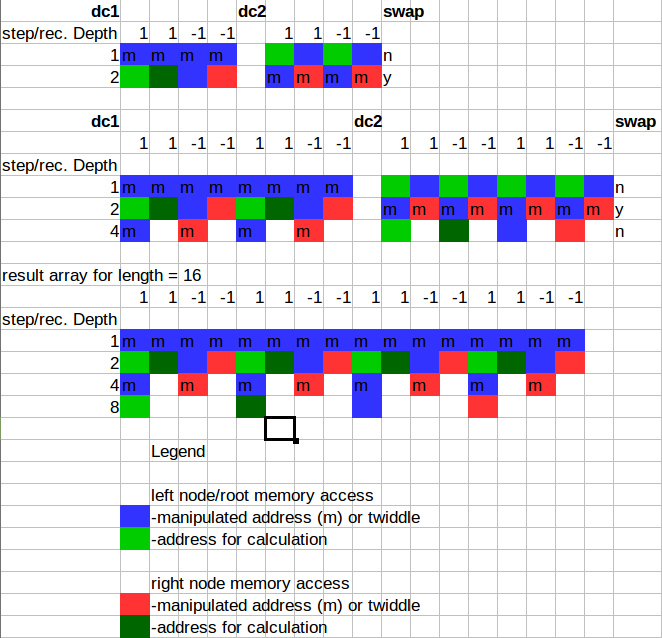
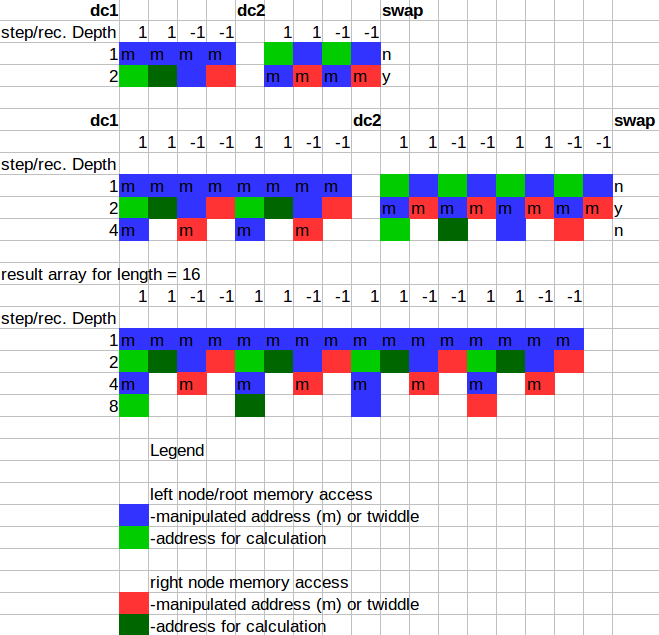
new tex files

diff --git a/Latex/memacc.tex b/Latex/memacc.tex
@@ -1,0 +1,11 @@
+Basicly, the recursive implementation calculates the odd and even part of the FFT like a binary tree. All left nodes in the recursive call tree calculate the even part and the odd part is calculated by the right nodes. Parent nodes need the children's result for their own calculations. That's why our arrays get swapped. 
+The resulting memory access pattern is as follows:
+\begin{center}
+\includegraphics[width=\textwidth]{memacc.png}
+\end{center}
+The 1's and -1's are just from an example rectangle signal. The picture shows the full memory access for arrays of length 4 and 8. This information is all that you need since you can easily iterative expand the access picture in two steps:
+\begin{enumerate}
+\item duplicate the memory pattern horizontally
+\item copy the last line of the other array, add double the "whitespaces" + 1 after the single accesses and add it as last line of the new access pattern. 
+\end{enumerate}
+As example we also included the result array for length = 16.

diff --git a/Latex/protokoll.tex b/Latex/protokoll.tex
@@ -77,11 +77,21 @@
 %
 %%%%%%%%%%%%%%%%%%%%%%%%%%%%%%%%%%%%%%%%%%%%%%%%%%%%%%%%%%%%%%%%%%%%%%
 %EXAMPLE
+\section{Introduction}
+	\subsection{Correctness}
+	\input{correctness}
+	\subsection{Complexitiy}
+	\input{complexity}
+	\pagebreak
+	\subsection{Memory Access Pattern}
+	\input{memacc}
 \section{OpenMP}
 	\subsection{Recursive Implementation}
 	\input{openmp_rec}
 	\subsection{Iterative Implementation}
 	\input{openmp_it}
+\section{MPI}
+	
 \pagebreak
 
 %%%%%%%%%%%%%%%%%%%%%%%%%%%%%%%%%%%%%%%%%%%%%%%%%%%%%%%%%%%%%%%%%%%%%%

diff --git a/Latex/correctness.tex b/Latex/correctness.tex
@@ -1,0 +1,1 @@
+FFT = FFT/2 +FFT/2

diff --git a/Latex/complexity.tex b/Latex/complexity.tex
@@ -1,0 +1,1 @@
+O(log(n)*n)
